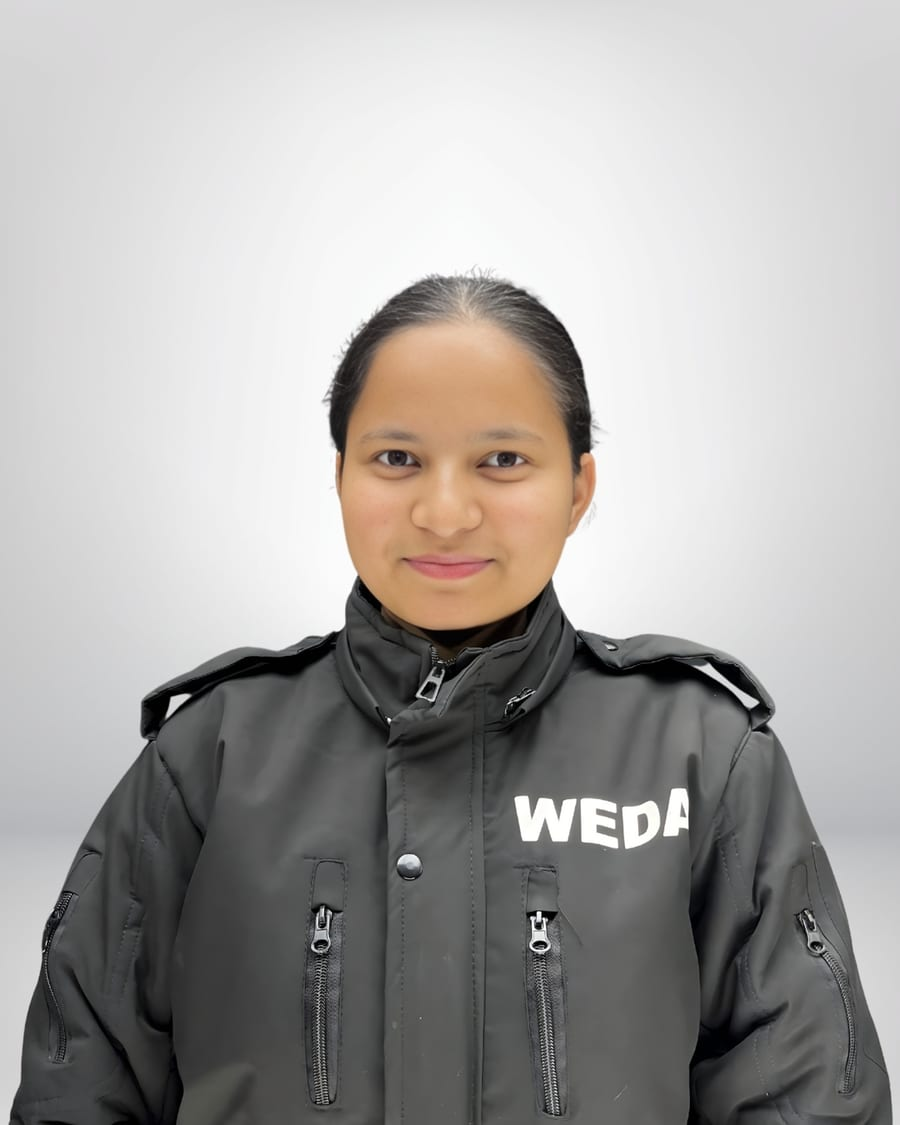
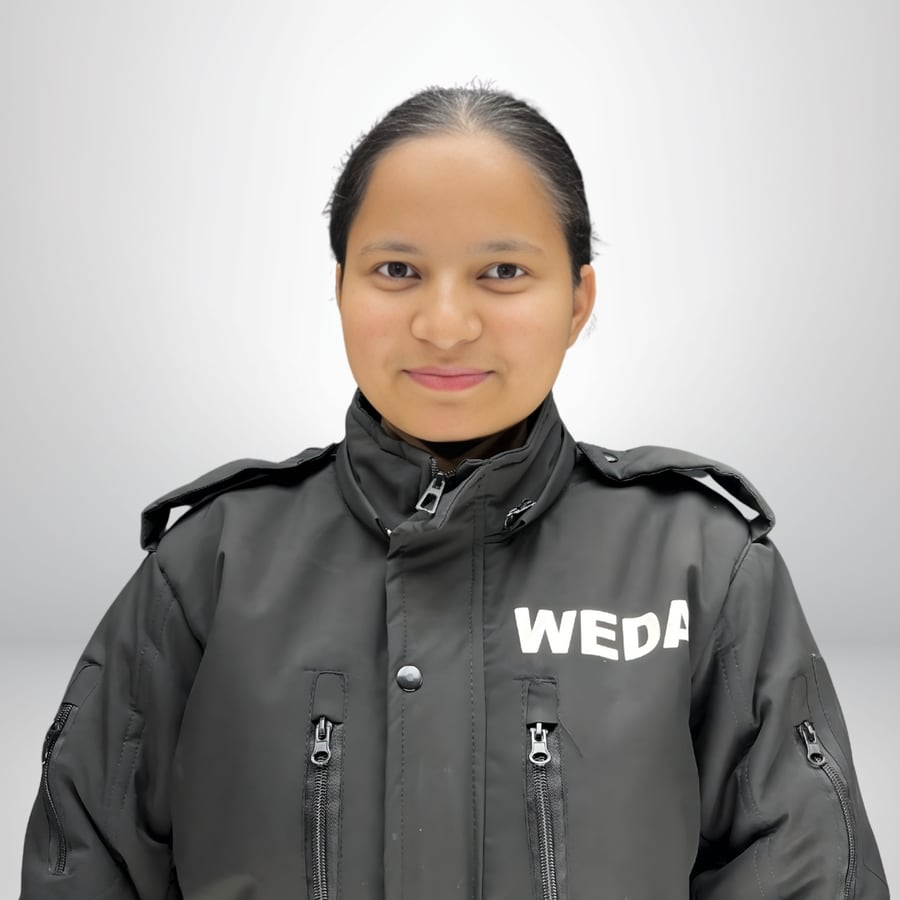
About Us carousels: equalise subject scale, loop endlessly, autoplay
Every face is now the same size, and the reels never hit an end.

Image scale
- Measured shoulder width ranged from 72% to 97% of frame, which is why
  some people looked small and others filled the card. Every portrait is
  now re-cropped so shoulders span ~95% with the head at a fixed height.
- Two detectors, because neither works alone on these photos: shoulder
  width from a per-row background interpolation, head position from a
  luminance threshold. The width method reads the backdrop vignette as
  subject near the top; the luminance method reads the darker vignette
  corners as subject at the sides.
- Portraits are square now. It is the only ratio every supplied source can
  fill by cropping alone. Tried 4:5 with padding first and rejected it:
  edge-copy smeared torsos downward, a flat fill left a visible rectangle,
  and a blurred backing plate ghosted a second face above the head. No
  canvas is invented anywhere.

Looping
- Slides render three times over and the view sits in the middle copy;
  once scrolling settles past a copy boundary it jumps back one copy
  width instantly. Runway in both directions, so arrows never disable.
- Autoplay every 3.8s, pausing on hover, focus, touch and hidden tabs,
  and off entirely under prefers-reduced-motion.
- Re-centring runs on its own idle check: autoplay's scrolling kept
  resetting the settle timer, which could starve the wrap.

diff --git a/js/main.js b/js/main.js
@@ -84,17 +84,26 @@ if (!reduced && typeof Lenis !== 'undefined') {
   const buildCarousel = (mount, slides, opt = {}) => {
     if (!mount || !slides || !slides.length) return;
     const variant = opt.variant || 'portrait';   // portrait | wide
+    const n = slides.length;
+
+    /* The reel never ends: the slide list is rendered three times over and
+       we sit in the middle copy. Once a scroll settles past a copy boundary
+       we jump back by exactly one copy width — instantly, so it is
+       invisible — which leaves infinite runway in both directions. */
+    const LOOP = n >= 3;
+    const reps = LOOP ? 3 : 1;
+    const cell = (s, i, copy) => `
+      <figure class="wcar__slide"${copy ? ' aria-hidden="true"' : ''}>
+        <img src="${esc(s.image || s.photo)}" alt="${copy ? '' : esc(s.name || s.caption || opt.label || 'WEDA')}"
+             loading="${!copy && i < 4 ? 'eager' : 'lazy'}" decoding="async">
+        ${(s.name || s.caption) ? `<figcaption>${esc(s.name || s.caption)}</figcaption>` : ''}
+      </figure>`;
 
     mount.innerHTML = `
       <div class="wcar wcar--${variant}" data-a>
         <div class="wcar__viewport">
           <div class="wcar__track" tabindex="0" role="region" aria-label="${esc(opt.label || 'Photo carousel')}">
-            ${slides.map((s, i) => `
-              <figure class="wcar__slide">
-                <img src="${esc(s.image || s.photo)}" alt="${esc(s.name || s.caption || opt.label || 'WEDA')}"
-                     loading="${i < 3 ? 'eager' : 'lazy'}" decoding="async">
-                ${(s.name || s.caption) ? `<figcaption>${esc(s.name || s.caption)}</figcaption>` : ''}
-              </figure>`).join('')}
+            ${Array.from({ length: reps }, (_, c) => slides.map((s, i) => cell(s, i, c !== (LOOP ? 1 : 0))).join('')).join('')}
           </div>
         </div>
         <div class="wcar__bar">
@@ -111,36 +120,44 @@ if (!reduced && typeof Lenis !== 'undefined') {
     const btns = mount.querySelectorAll('.wcar__b');
     let wanted = null;
 
+    const all = () => [...track.querySelectorAll('.wcar__slide')];
     const positions = () => {
-      const list = [...track.querySelectorAll('.wcar__slide')];
+      const list = all();
       if (!list.length) return [];
       const base = list[0].offsetLeft;
       return list.map(s => s.offsetLeft - base);
     };
     const maxScroll = () => Math.max(0, track.scrollWidth - track.clientWidth);
+    const setWidth = () => (LOOP ? track.scrollWidth / reps : maxScroll());
 
-    // dots are pages, not slides — 16 photos should not mean 16 dots
-    const pageCount = () => Math.max(1, Math.ceil(maxScroll() / Math.max(1, track.clientWidth)) + 1);
-
-    const renderDots = () => {
-      const n = pageCount();
-      if (n <= 1) { dots.innerHTML = ''; return; }
-      dots.innerHTML = Array.from({ length: n }, (_, i) =>
-        `<button type="button" class="wcar__dot" role="tab" data-page="${i}" aria-label="Go to slide group ${i + 1}"></button>`).join('');
-    };
+    dots.innerHTML = Array.from({ length: n }, (_, i) =>
+      `<button type="button" class="wcar__dot" role="tab" data-i="${i}" aria-label="Slide ${i + 1}"></button>`).join('');
 
     const sync = () => {
-      const max = maxScroll();
-      btns.forEach(b => {
-        const back = Number(b.dataset.dir) < 0;
-        b.disabled = back ? track.scrollLeft <= 2 : track.scrollLeft >= max - 2;
-      });
-      const n = pageCount();
-      const active = max <= 0 ? 0 : Math.round((track.scrollLeft / max) * (n - 1));
+      if (!LOOP) {
+        const max = maxScroll();
+        btns.forEach(b => {
+          const back = Number(b.dataset.dir) < 0;
+          b.disabled = back ? track.scrollLeft <= 2 : track.scrollLeft >= max - 2;
+        });
+      }
+      const pos = positions();
+      let nearest = 0, best = Infinity;
+      pos.forEach((x, i) => { const d = Math.abs(x - track.scrollLeft); if (d < best) { best = d; nearest = i; } });
+      const active = ((nearest % n) + n) % n;
       dots.querySelectorAll('.wcar__dot').forEach((d, i) => {
         d.classList.toggle('is-on', i === active);
         d.setAttribute('aria-selected', i === active);
       });
+    };
+
+    /* Re-centre on the middle copy. Only ever called once scrolling has
+       stopped, so it never interrupts an animation the user can see. */
+    const recentre = () => {
+      if (!LOOP) return;
+      const sw = setWidth();
+      if (track.scrollLeft < sw * 0.5) track.scrollLeft += sw;
+      else if (track.scrollLeft > sw * 1.5) track.scrollLeft -= sw;
     };
 
     const go = dir => {
@@ -152,31 +169,61 @@ if (!reduced && typeof Lenis !== 'undefined') {
       track.scrollTo({ left: wanted, behavior: 'smooth' });
     };
 
-    btns.forEach(b => b.addEventListener('click', () => go(Number(b.dataset.dir))));
+    btns.forEach(b => b.addEventListener('click', () => { pause(); go(Number(b.dataset.dir)); resumeSoon(); }));
 
     dots.addEventListener('click', e => {
       const d = e.target.closest('.wcar__dot');
       if (!d) return;
-      const n = pageCount();
-      wanted = n > 1 ? (Number(d.dataset.page) / (n - 1)) * maxScroll() : 0;
+      pause();
+      const pos = positions();
+      const idx = Number(d.dataset.i) + (LOOP ? n : 0);   // the middle copy
+      wanted = Math.min(pos[idx] ?? 0, maxScroll());
       track.scrollTo({ left: wanted, behavior: 'smooth' });
+      resumeSoon();
     });
 
-    let settle;
+    let settle, lastScroll = 0;
     track.addEventListener('scroll', () => {
+      lastScroll = performance.now();
       sync();
       clearTimeout(settle);
-      settle = setTimeout(() => { wanted = null; }, 140);
+      settle = setTimeout(() => { wanted = null; recentre(); sync(); }, 160);
     }, { passive: true });
+
+    /* Independent idle check. Autoplay's own scrolling can keep resetting
+       the settle timer, which would starve the wrap and let the reel run
+       off the end of the last copy. */
+    setInterval(() => {
+      if (performance.now() - lastScroll > 320) { recentre(); sync(); }
+    }, 600);
 
     // let horizontal trackpad gestures through — Lenis owns vertical scroll
     track.addEventListener('wheel', e => {
       if (Math.abs(e.deltaX) > Math.abs(e.deltaY)) e.stopPropagation();
     }, { passive: true });
 
-    addEventListener('resize', () => { renderDots(); sync(); });
-    renderDots();
-    sync();
+    /* Autoplay — keeps moving on its own, but yields the moment someone
+       wants to look, and stays off entirely for reduced-motion users. */
+    let timer = null, resumeT = null;
+    const tick = () => { if (!document.hidden) go(1); };
+    const play = () => { if (!reduced && !timer) timer = setInterval(tick, opt.interval || 3800); };
+    const pause = () => { clearInterval(timer); timer = null; clearTimeout(resumeT); };
+    const resumeSoon = () => { clearTimeout(resumeT); resumeT = setTimeout(play, 5000); };
+
+    ['mouseenter', 'focusin', 'touchstart', 'pointerdown'].forEach(ev =>
+      mount.addEventListener(ev, pause, { passive: true }));
+    ['mouseleave', 'focusout'].forEach(ev =>
+      mount.addEventListener(ev, resumeSoon, { passive: true }));
+    document.addEventListener('visibilitychange', () => (document.hidden ? pause() : resumeSoon()));
+
+    addEventListener('resize', () => { requestAnimationFrame(() => { recentre(); sync(); }); });
+
+    // start on the middle copy so there is runway behind us too
+    requestAnimationFrame(() => {
+      if (LOOP) track.scrollLeft = setWidth();
+      sync();
+      play();
+    });
   };
 
   /* ---- STRIKERS: mentor photo carousel (about.html) ---- */

diff --git a/css/style.css b/css/style.css
@@ -1032,10 +1032,13 @@ body.cur-hover .cur-ring{width:68px;height:68px;opacity:.5;}
 }
 .wcar__slide:hover img{transform:scale(1.035);}
 
-/* fixed frames — this is what makes every photo the same size */
-.wcar--portrait .wcar__slide{aspect-ratio:4/5;flex-basis:calc((100% - 3 * clamp(10px,1.3vw,18px)) / 4);}
+/* fixed frames — this is what makes every photo the same size.
+   Portraits are square: it is the only ratio every supplied source can
+   fill by cropping alone, so no canvas ever has to be invented. */
+.wcar--portrait .wcar__slide{aspect-ratio:1/1;flex-basis:calc((100% - 3 * clamp(10px,1.3vw,18px)) / 4);}
 .wcar--wide     .wcar__slide{aspect-ratio:3/2;flex-basis:calc((100% - 1 * clamp(10px,1.3vw,18px)) / 2);}
-.wcar--wide .wcar__slide img{object-position:center center;}
+/* the files are already cropped to frame, so no object-position nudge */
+.wcar__slide img{object-position:center center;}
 
 .wcar__slide figcaption{
   position:absolute;left:0;right:0;bottom:0;padding:34px 16px 13px;
